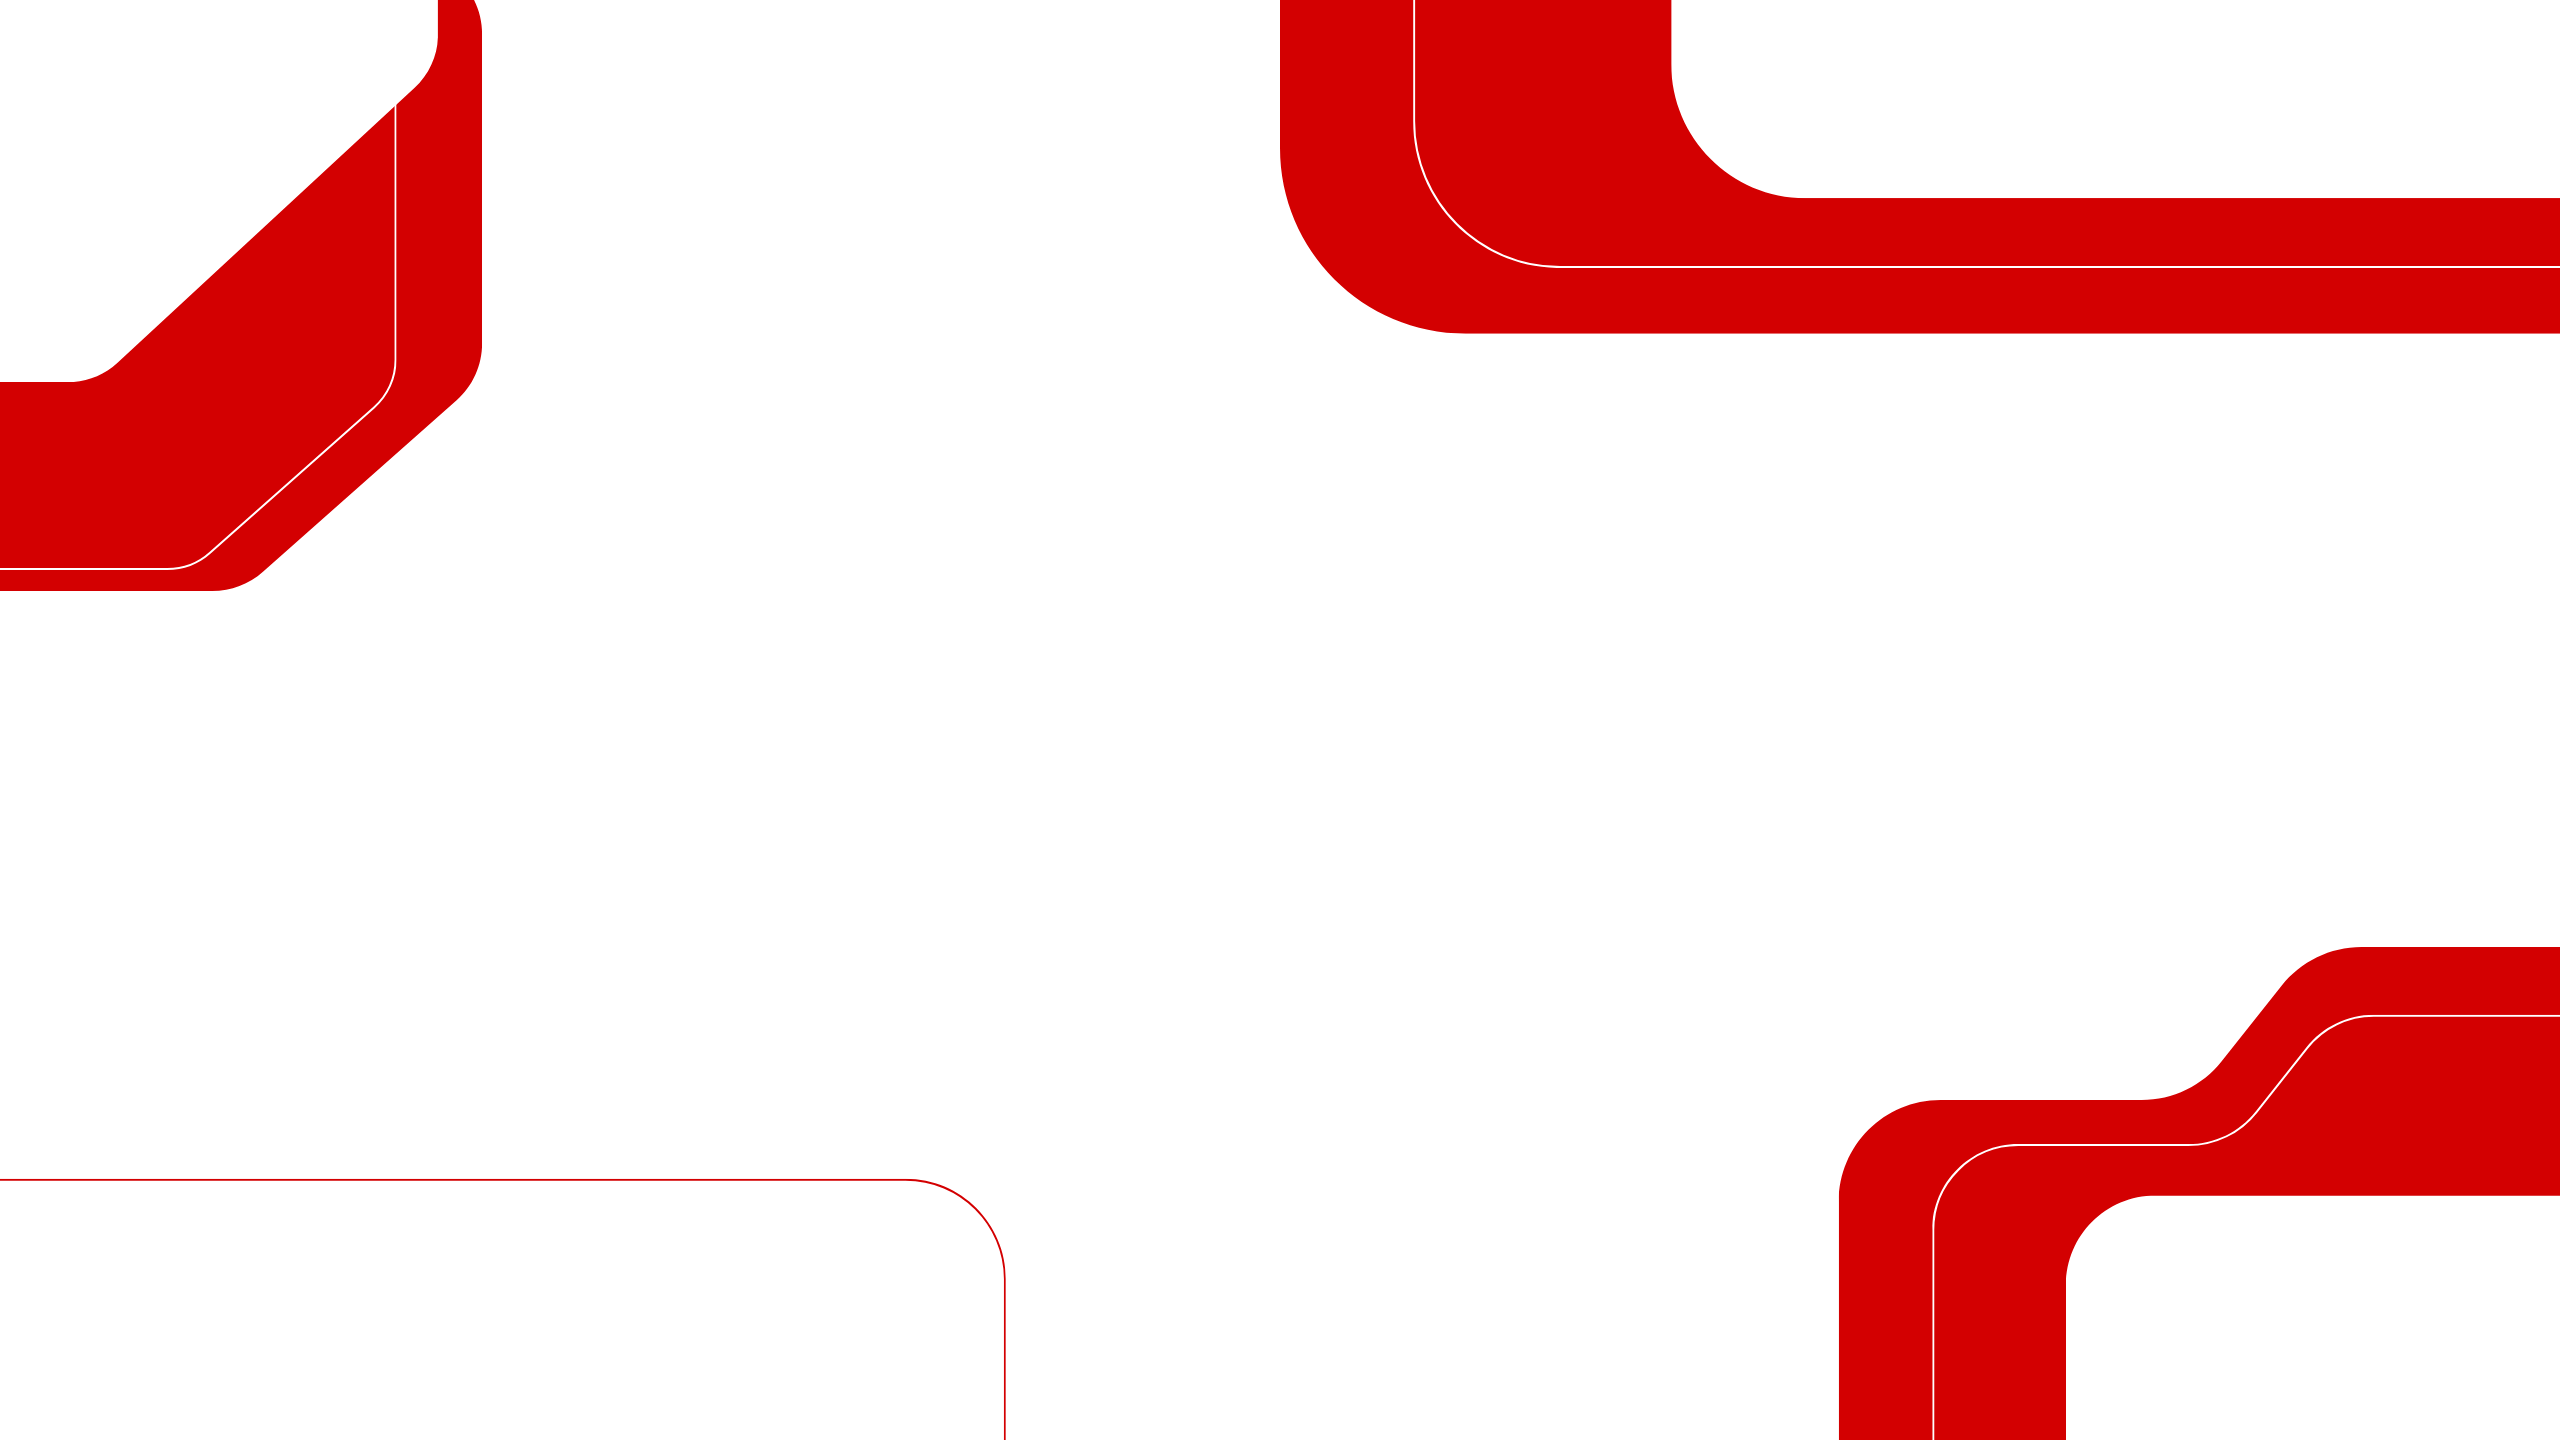
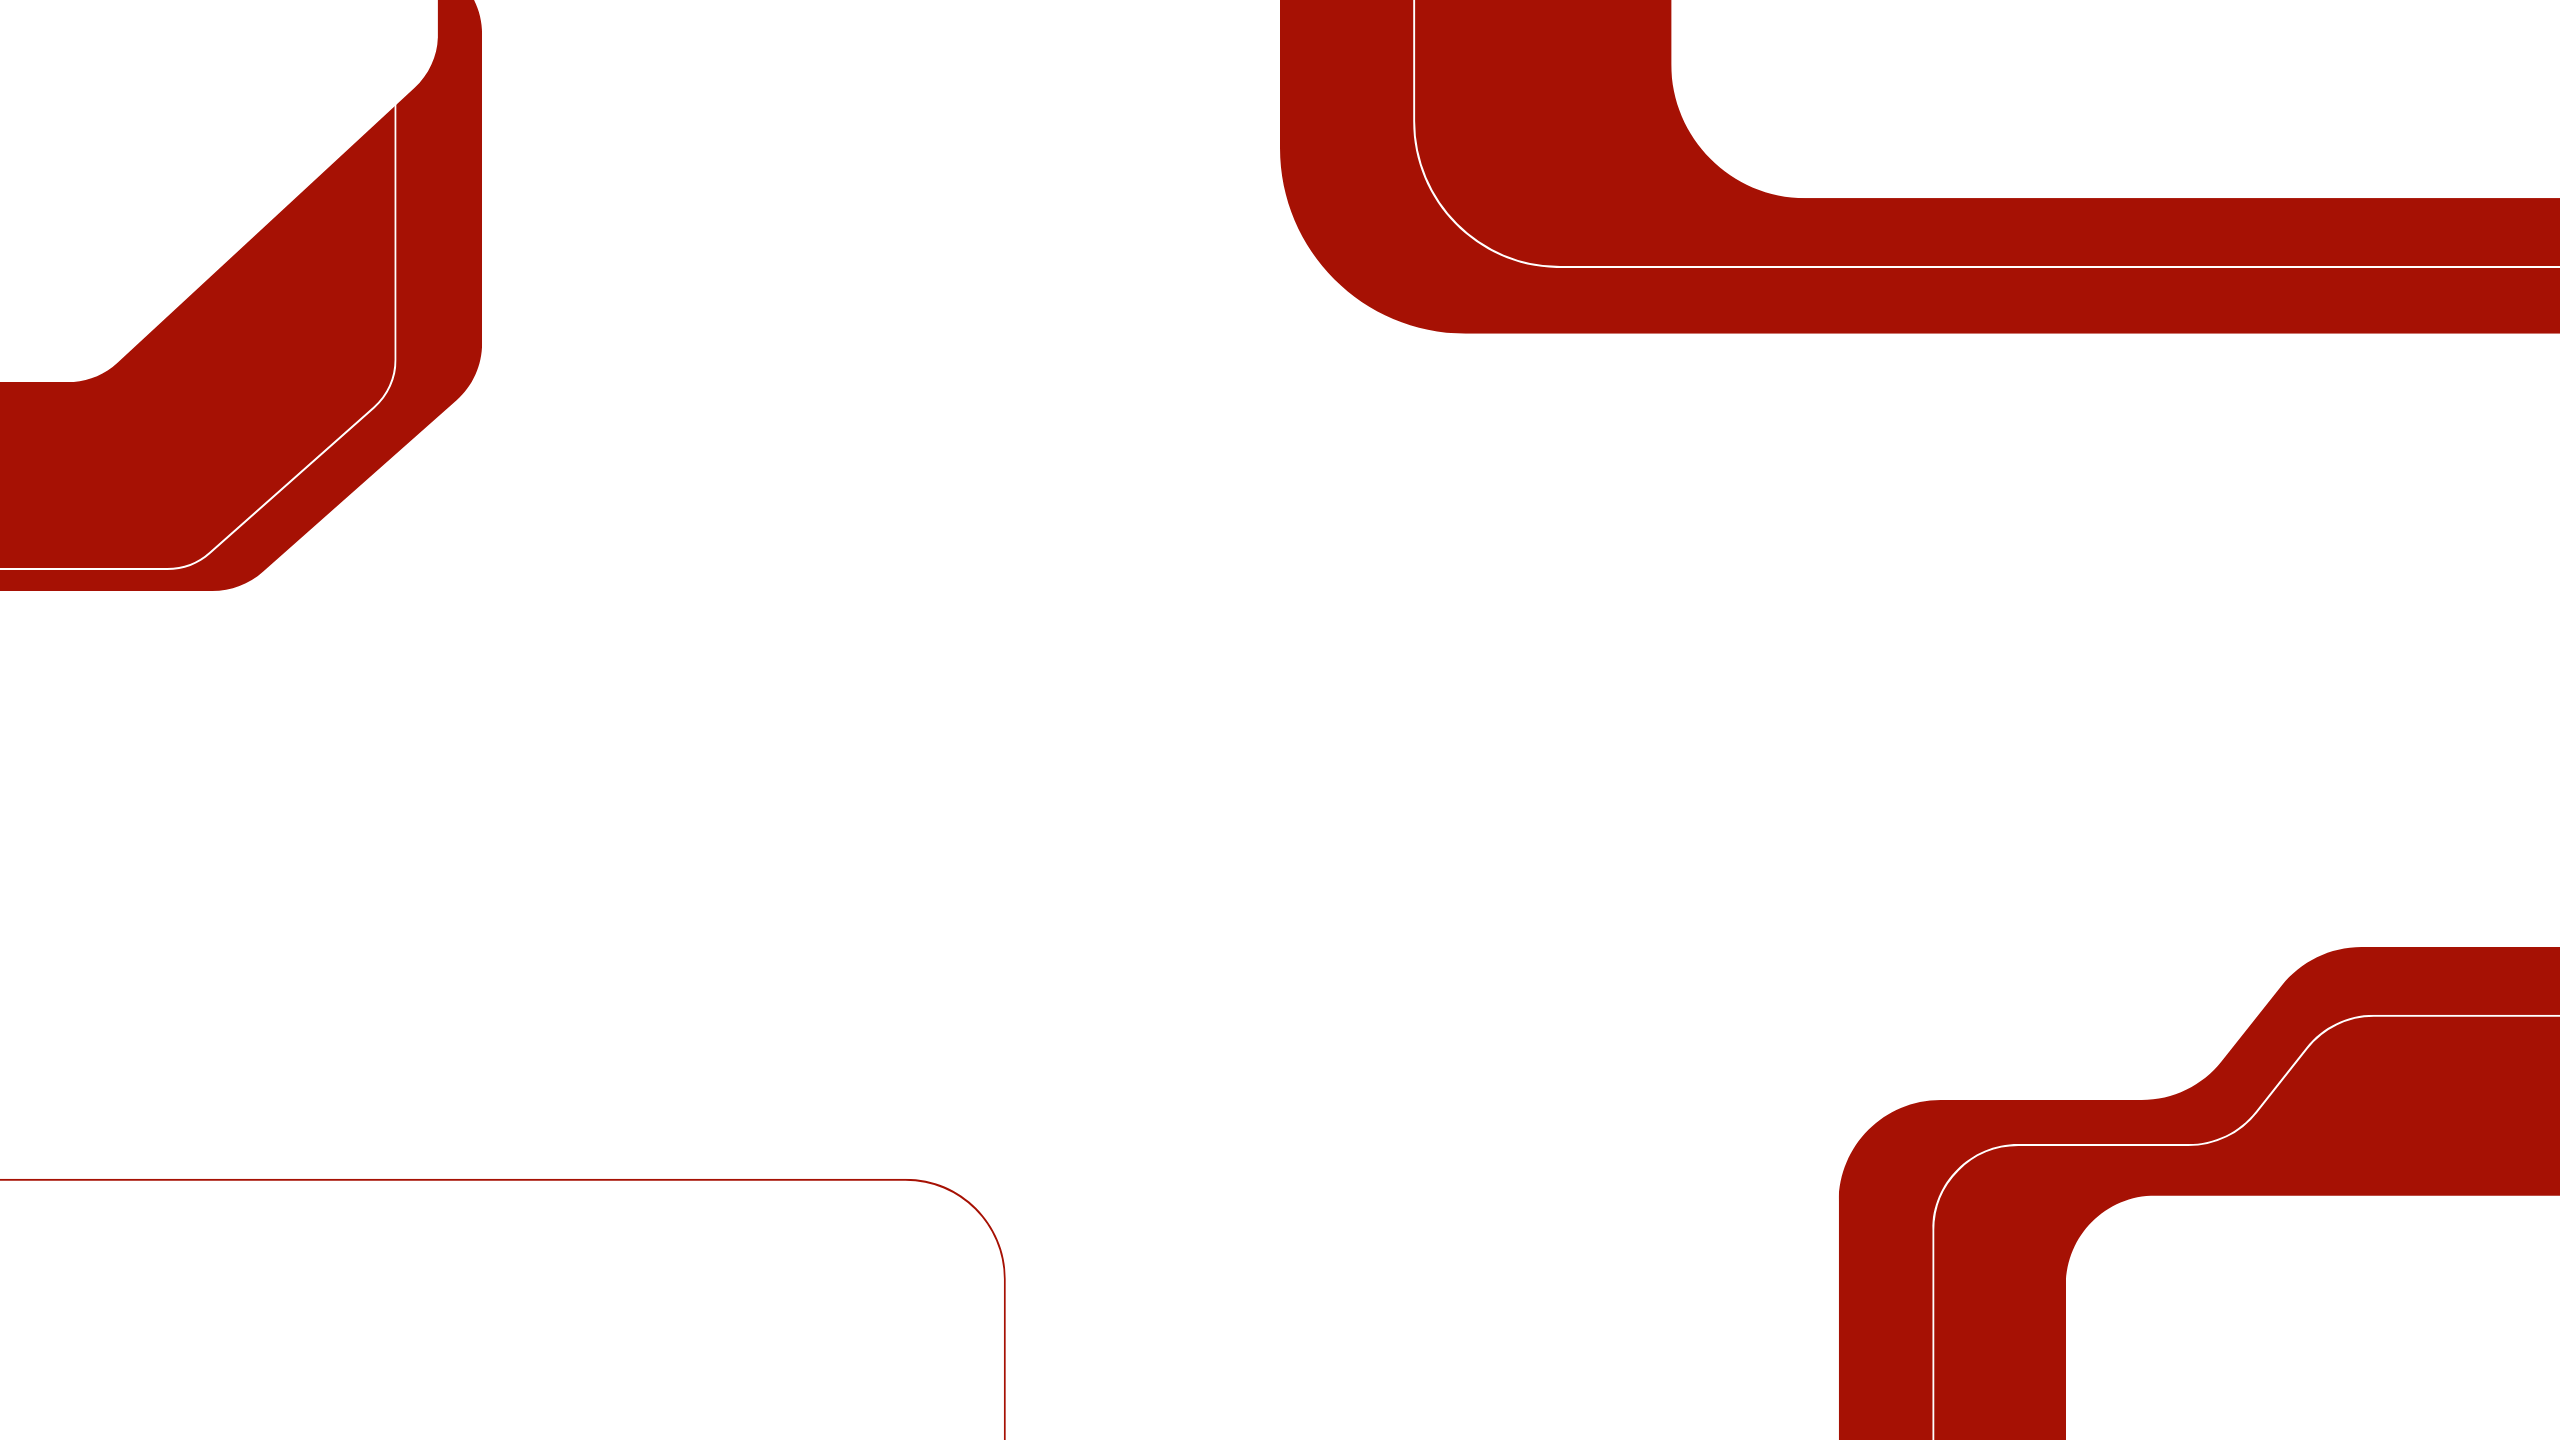
Changed to a darker red colour scheme

Changed region(s): [[0.5, 0.0, 1.0, 0.25], [0.7188, 0.6562, 1.0, 1.0], [0.0, 0.0, 0.1875, 0.4375]]

diff --git a/style.css b/style.css
@@ -12,7 +12,7 @@ body {
   justify-content: space-between;
   align-items: center;
   color: white;
-  background-color: #d30001;
+  background-color: #a61104;
   padding: 8px 48px;
   position: sticky;
   top: 0;
@@ -90,7 +90,7 @@ body {
 }
 
 #hero-content h1 {
-  color: #d30001;
+  color: #a61104;
 }
 
 #hero-content h1, #hero-content h2{
@@ -112,7 +112,7 @@ body {
 }
 
 #hero-links i {
-  color: #d30001;
+  color: #a61104;
 }
 
 #hero-animation {
@@ -128,9 +128,9 @@ ul {
 
 .button {
   border-radius: 5px;
-  box-shadow: 0px 4px 8px rgba(211, 0, 1, 0.3);
+  box-shadow: 0px 4px 8px rgba(166, 17, 4, 0.3);
   padding: 16px 80px;
-  background-color: #d30001;
+  background-color: #a61104;
   color: white;
   transition: .3s;
 }
@@ -170,15 +170,15 @@ i {
 }
 
 #hero i:hover {
-  background-color: rgba(211, 0, 1, 0.2);
+  background: rgba(200, 50, 50, 0.05);
 }
 
 hr.rounded {
   border-radius: 5px;
   width: 30px;
   height: 5px;
-  border: 1px solid #d30001;
-  background-color: #d30001;
+  border: 1px solid #a61104;
+  background-color: #a61104;
 }
 
 .section {
@@ -188,7 +188,7 @@ hr.rounded {
   align-items: center;
   padding: 120px 160px;
   font-size: 19.2px !important;
-  background: linear-gradient(white, #fffafa);
+  background: linear-gradient(white, #fdf9f9);
 }
 
 .project-section {
@@ -216,7 +216,7 @@ hr.rounded {
 }
 
 #skills p, #tools p {
-  background-color: #d30001;
+  background-color: #a61104;
   padding: 8px 16px;
   border-radius: 5px;
   display: inline-block;
@@ -226,11 +226,11 @@ hr.rounded {
 
 }
 #summary a {
-  color: #d30001;
+  color: #a61104;
 }
 
 #footer {
-  background-color: #d30001;
+  background-color: #a61104;
   color: white;
   display: flex;
   align-items: center;
@@ -292,15 +292,15 @@ hr.rounded {
 .project-links .button {
   padding: 16px 48px;
   margin-right: 16px;
-  border: 2px solid #d30001;
+  border: 2px solid #a61104;
 }
 
 .button-secondary {
   padding: 16px 48px;
-  color: #d30001;
+  color: #a61104;
   border-radius: 5px;
-  box-shadow: 0 5px 15px 0 rgba(0,0,0,.15);
-  border: 2px solid #d30001;
+  box-shadow: 0px 4px 8px rgba(166, 17, 4, 0.3);
+  border: 2px solid #a61104;
   transition: .3s;
 }
 
@@ -314,7 +314,7 @@ hr.rounded {
 
 #carouselExampleIndicators {
   width: 900px;
-  box-shadow: 0 5px 15px 0 rgba(0,0,0,.15);
+  box-shadow: 0px 4px 8px rgba(166, 17, 4, 0.3);
   margin: 0 auto;
   margin-bottom: 32px;
 }
@@ -343,7 +343,7 @@ hr.rounded {
 }
 
 .carousel-indicators .active {
-  background-color: #d30001;
+  background-color: #a61104;
 }
 
 .carousel-control-prev-icon {
